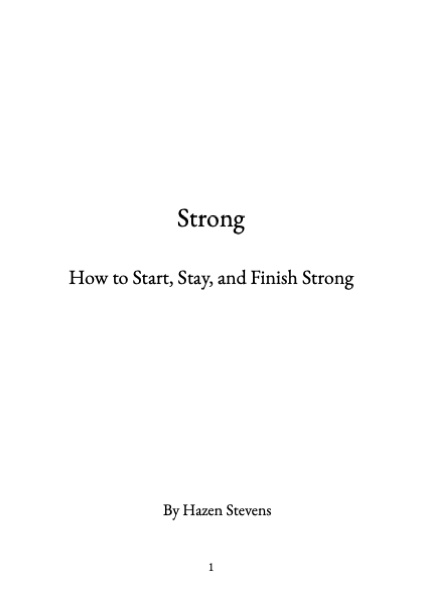
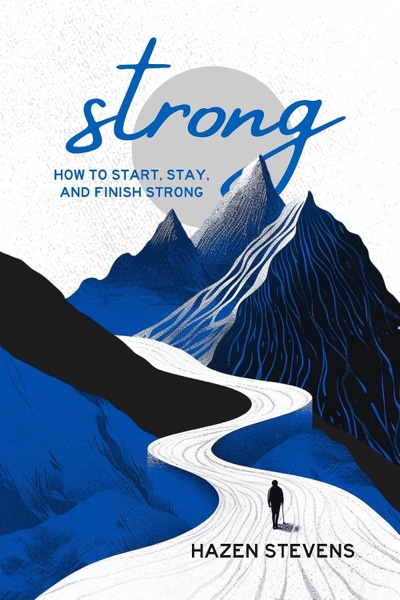
Real Amazon KDP covers for Seven Seeds, Strong, and Transformed

diff --git a/CLAUDE.md b/CLAUDE.md
@@ -114,8 +114,12 @@ weeks.
   on Amazon. Library items with a `cover` field render as a clickable
   bookshelf grid (`.shelf` in app.css); items without one stay as list rows.
   Covers live at `docs/art/book-*.jpg` — Conversations uses the real KDP
-  cover; Seven Seeds and Holy Week are just page-1 renders because no
-  designed cover exists anywhere in Drive.
+  cover; the rest are page-1 renders because no designed cover exists
+  anywhere in Drive. All four Hazen books are in: Conversations, Seven
+  Seeds, Strong, Transformed. Strong/Transformed were exported straight
+  from their gdocs in `01_Books and Written Resources/` — a Google Doc that
+  uses tabs exports with a junk "Tab 1" first page; strip it with pypdf
+  before shipping (installed via `pip3 install --user --break-system-packages pypdf`).
 - **Sermon-note PDFs live in `docs/files/notes/`, named `YYYY-MM-DD-<slug>.pdf`**
   (45 of them as of 8/13/2026), attached to sermons via `notes` patches in
   `manual_sermons.json`. The 2025 ones are hand-made PDFs from

diff --git a/HISTORY.md b/HISTORY.md
@@ -165,3 +165,7 @@ stale assets as a bug, download what the server is actually serving and compare
 - Gotcha for next time: Hannah's outline gdocs export unauthenticated via
   /export?format=pdf — except 3March8Outline, which needed the Drive
   connector. Google throttles ~1 export/sec; sleep between curls.
+- Follow-up same evening: STRONG and TRANSFORMED were finished books hiding
+  as gdocs in the books folder. Exported to PDF (Strong needed the Drive
+  connector — not link-shared), stripped the "Tab 1" junk page with pypdf,
+  page-1 covers, added to Library. All four Hazen books now in the app.
